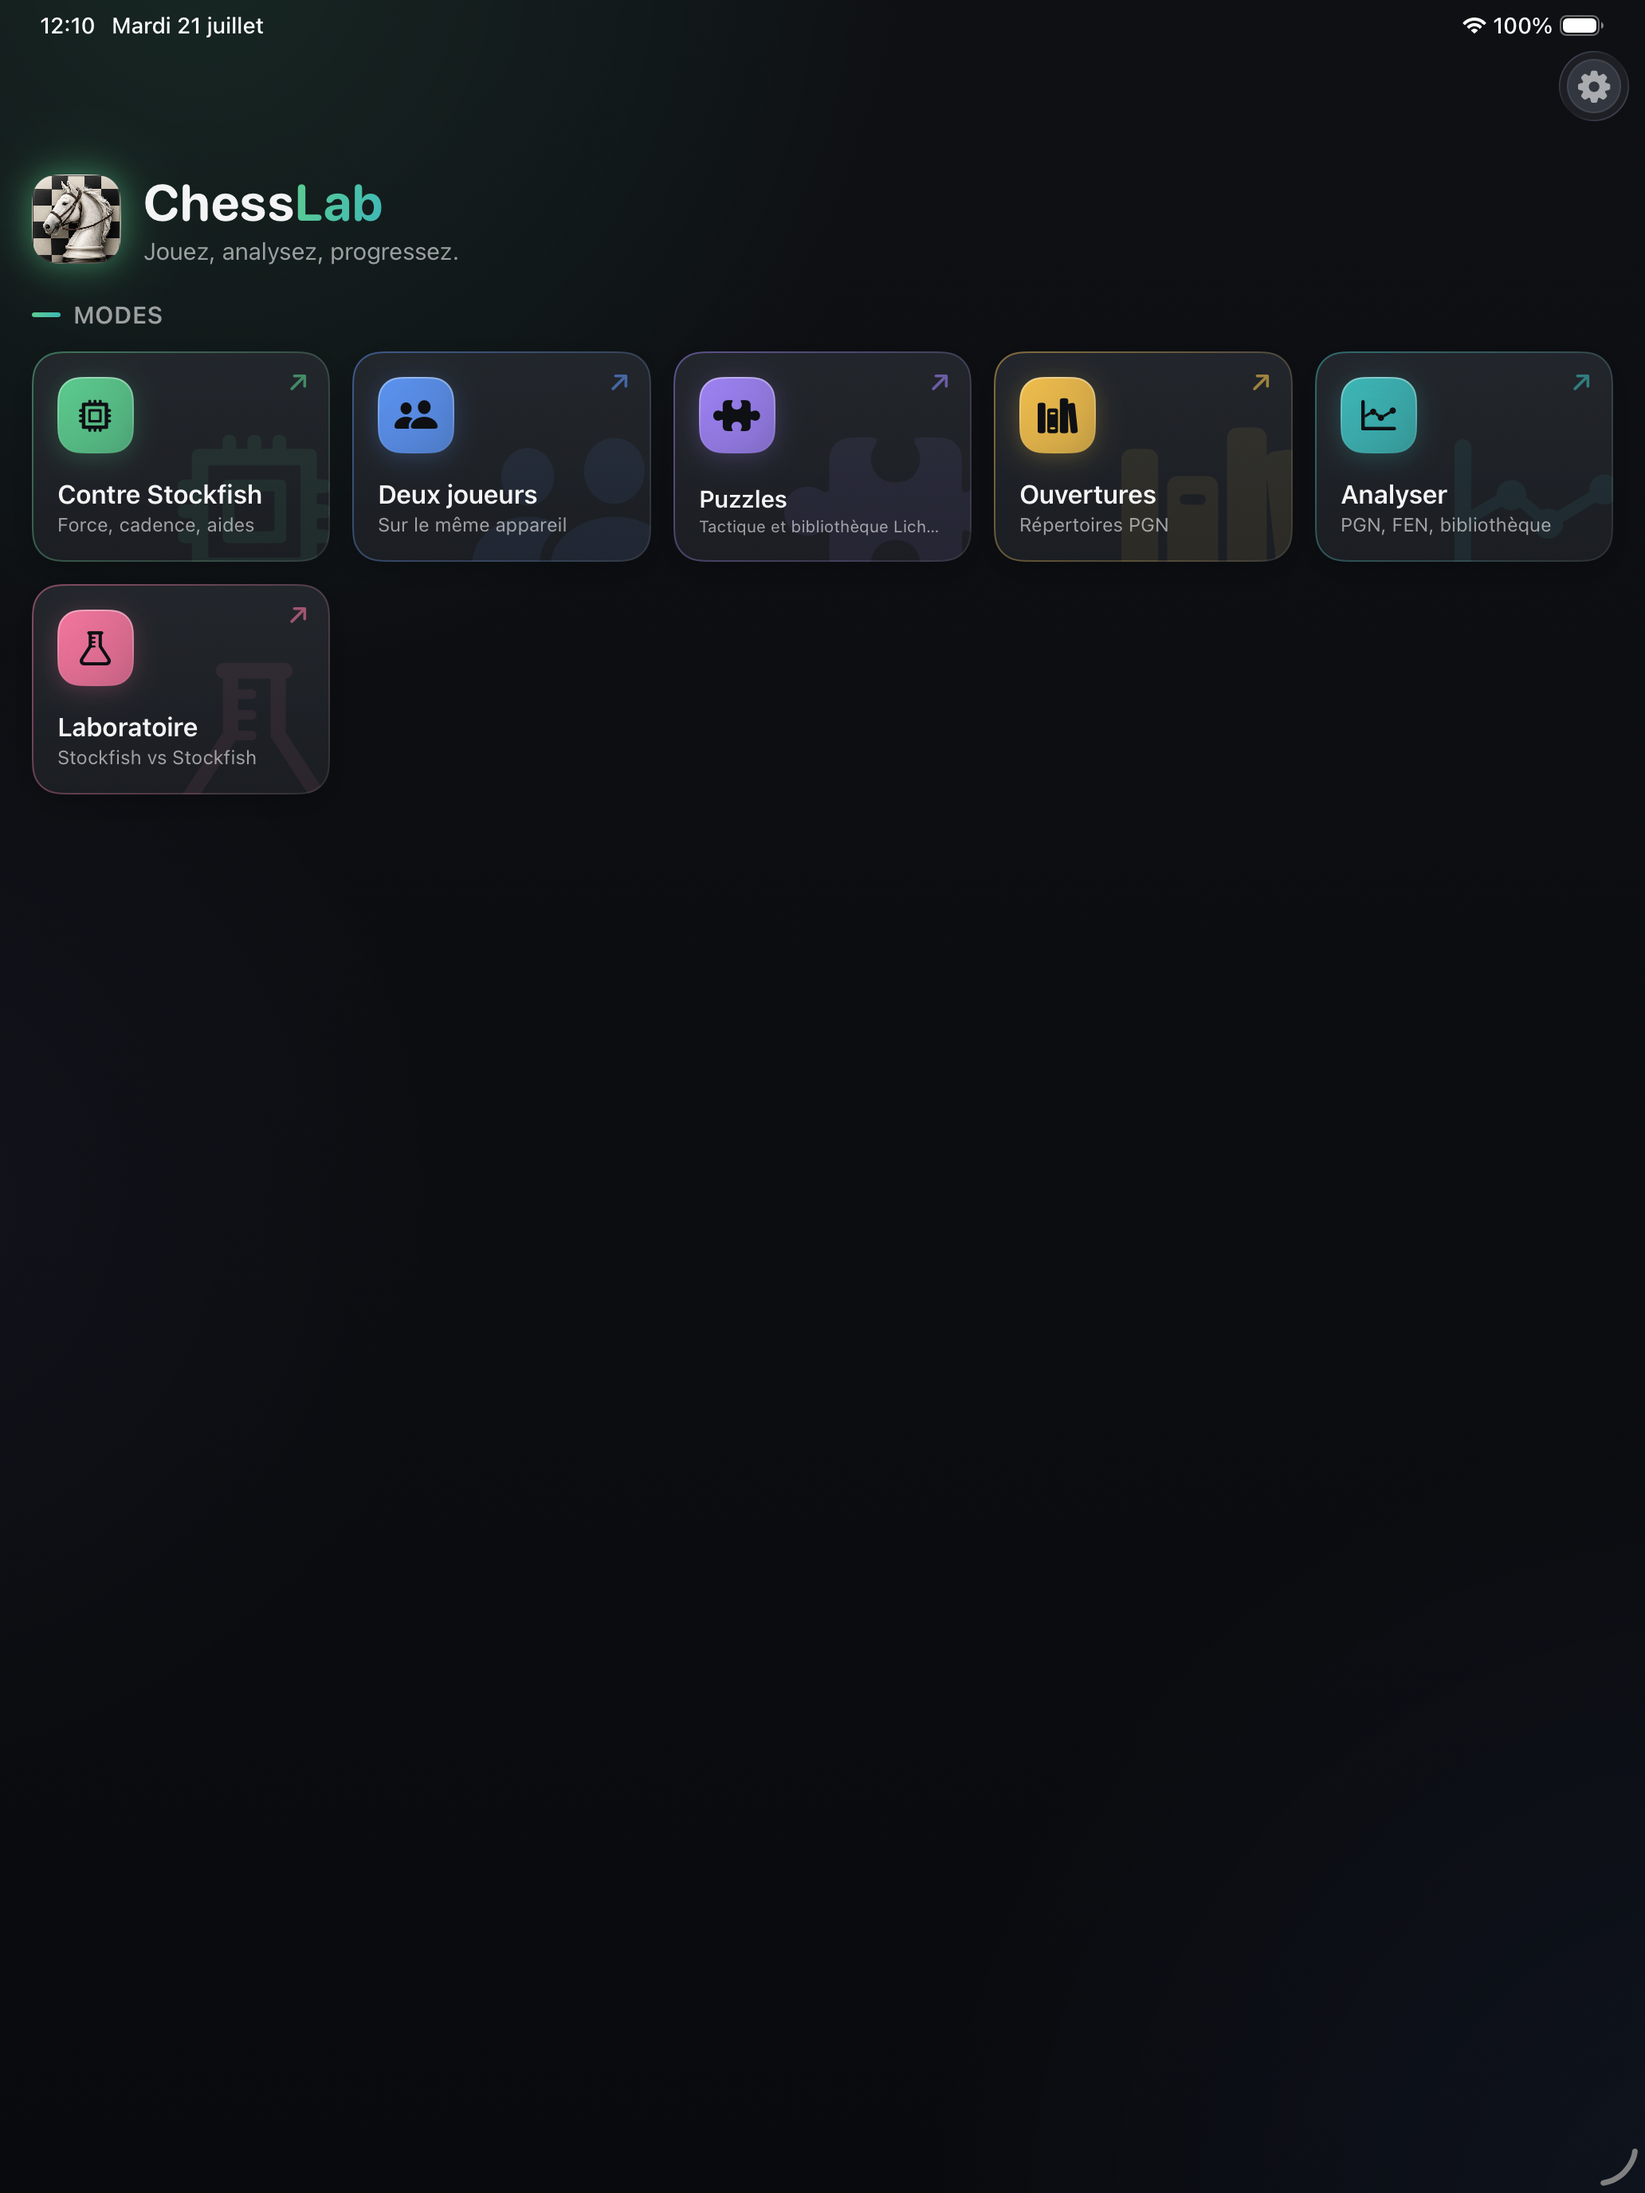
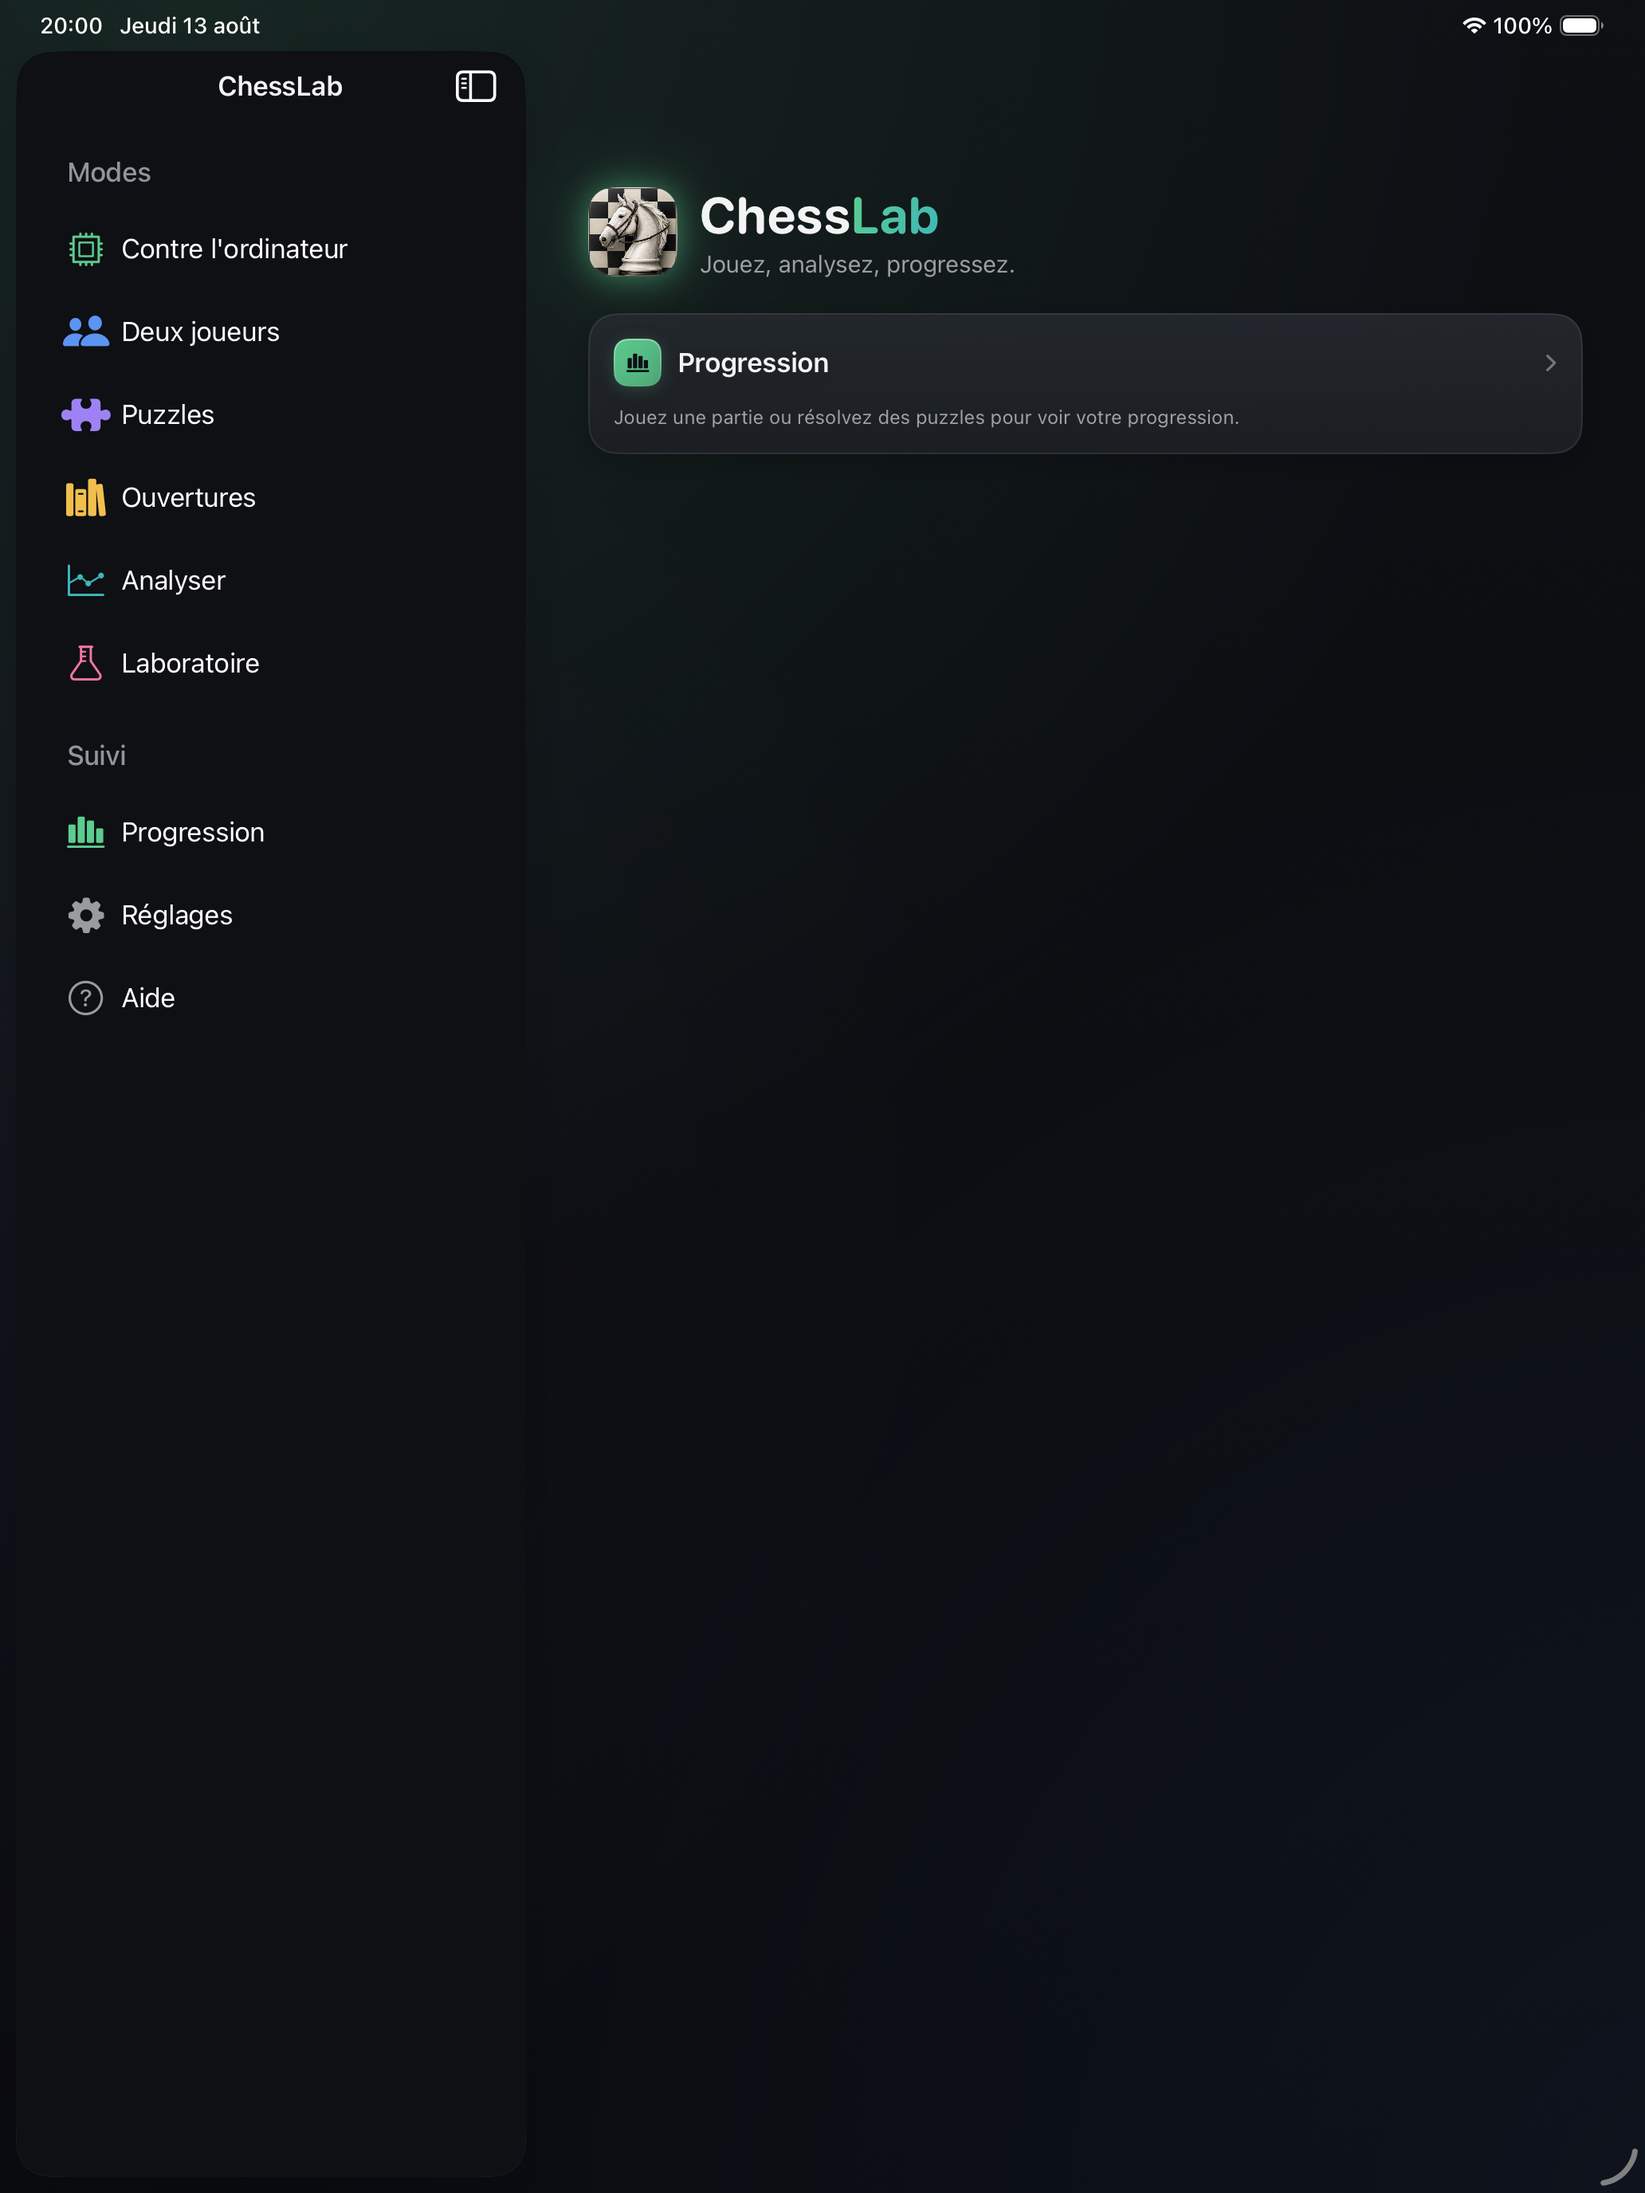
Captures App Store régénérées (Lot 5.6)
16 captures : accueil, Ouvertures, lecteur d'ouverture et partie, en français
et en anglais, sur iPhone 16 Pro Max (iphone-6.9) et iPad Pro 13" (ipad-13).
Les précédentes étaient périmées — libellés « Contre Stockfish » et
« Répertoires PGN », disparus du code — et montraient l'ancienne grille pleine
largeur sans barre latérale.

diff --git a/PROGRESS.md b/PROGRESS.md
@@ -4039,8 +4039,11 @@ que masquée par un rouge sans diagnostic.
 
 ### Non fait
 
-- **Captures App Store** non régénérées. Elles restent supprimées dans l'arbre
-  de travail (suppression antérieure à ce chantier).
+- **Captures App Store régénérées** : 16 fichiers (accueil, Ouvertures,
+  lecteur, partie) × français/anglais × iPhone 16 Pro Max (`iphone-6.9`) et
+  iPad Pro 13" (`ipad-13`). Les anciennes étaient périmées (libellés « Contre
+  Stockfish », « Répertoires PGN ») et avaient été supprimées avant ce
+  chantier ; les nouvelles reflètent l'interface corrigée.
 - **Mac Catalyst** : aucune destination macOS compilée de toute la session.
   Le plancher de fenêtre à 820 pt et l'insensibilité de Catalyst aux clés
   `INFOPLIST_KEY_UISupportedInterfaceOrientations*` sont vérifiés **par
